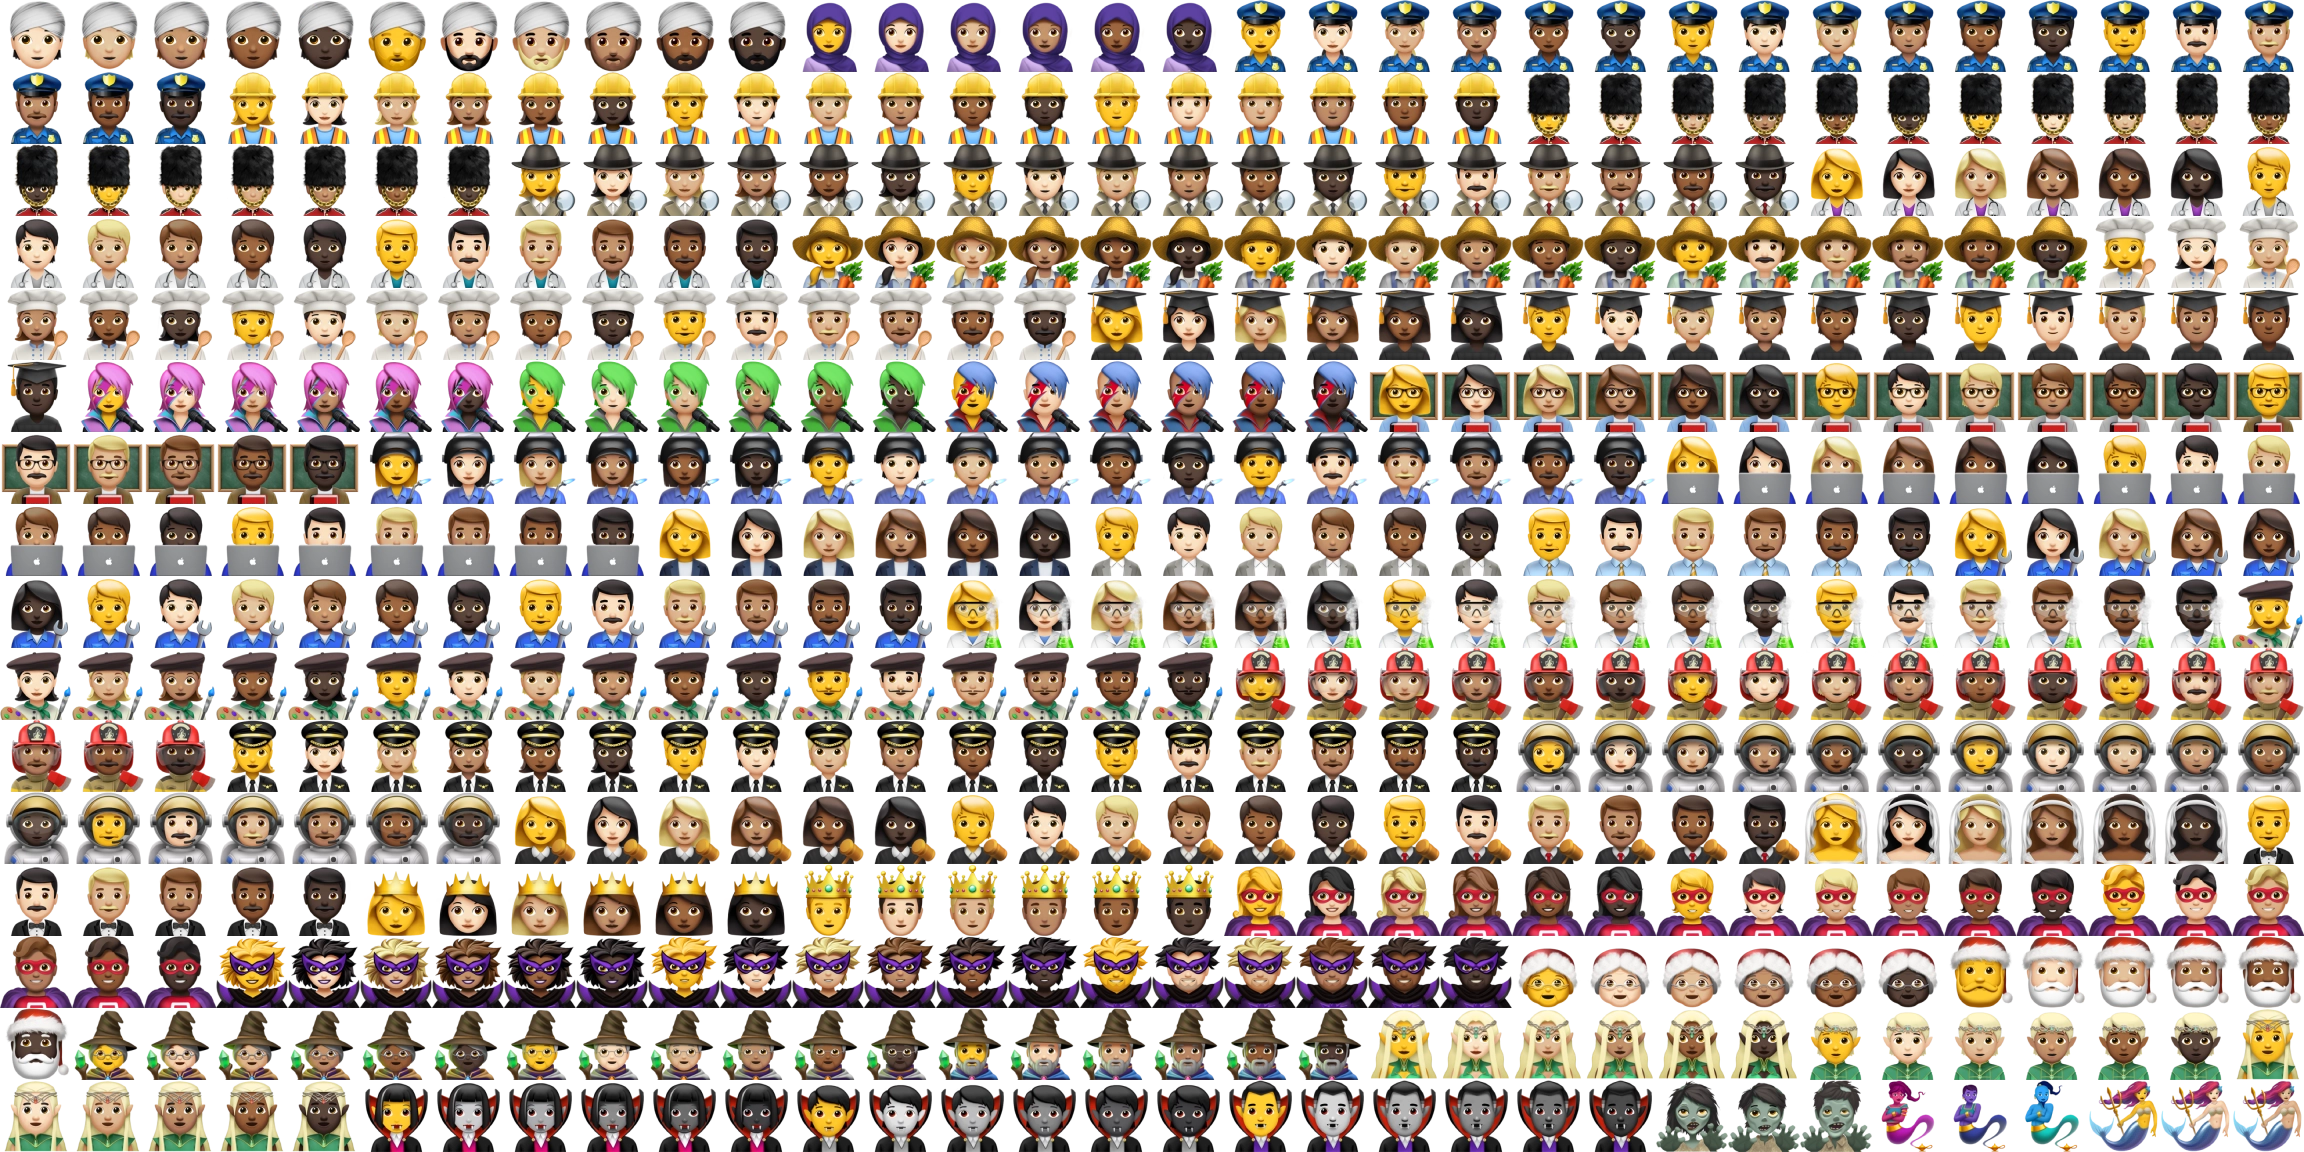
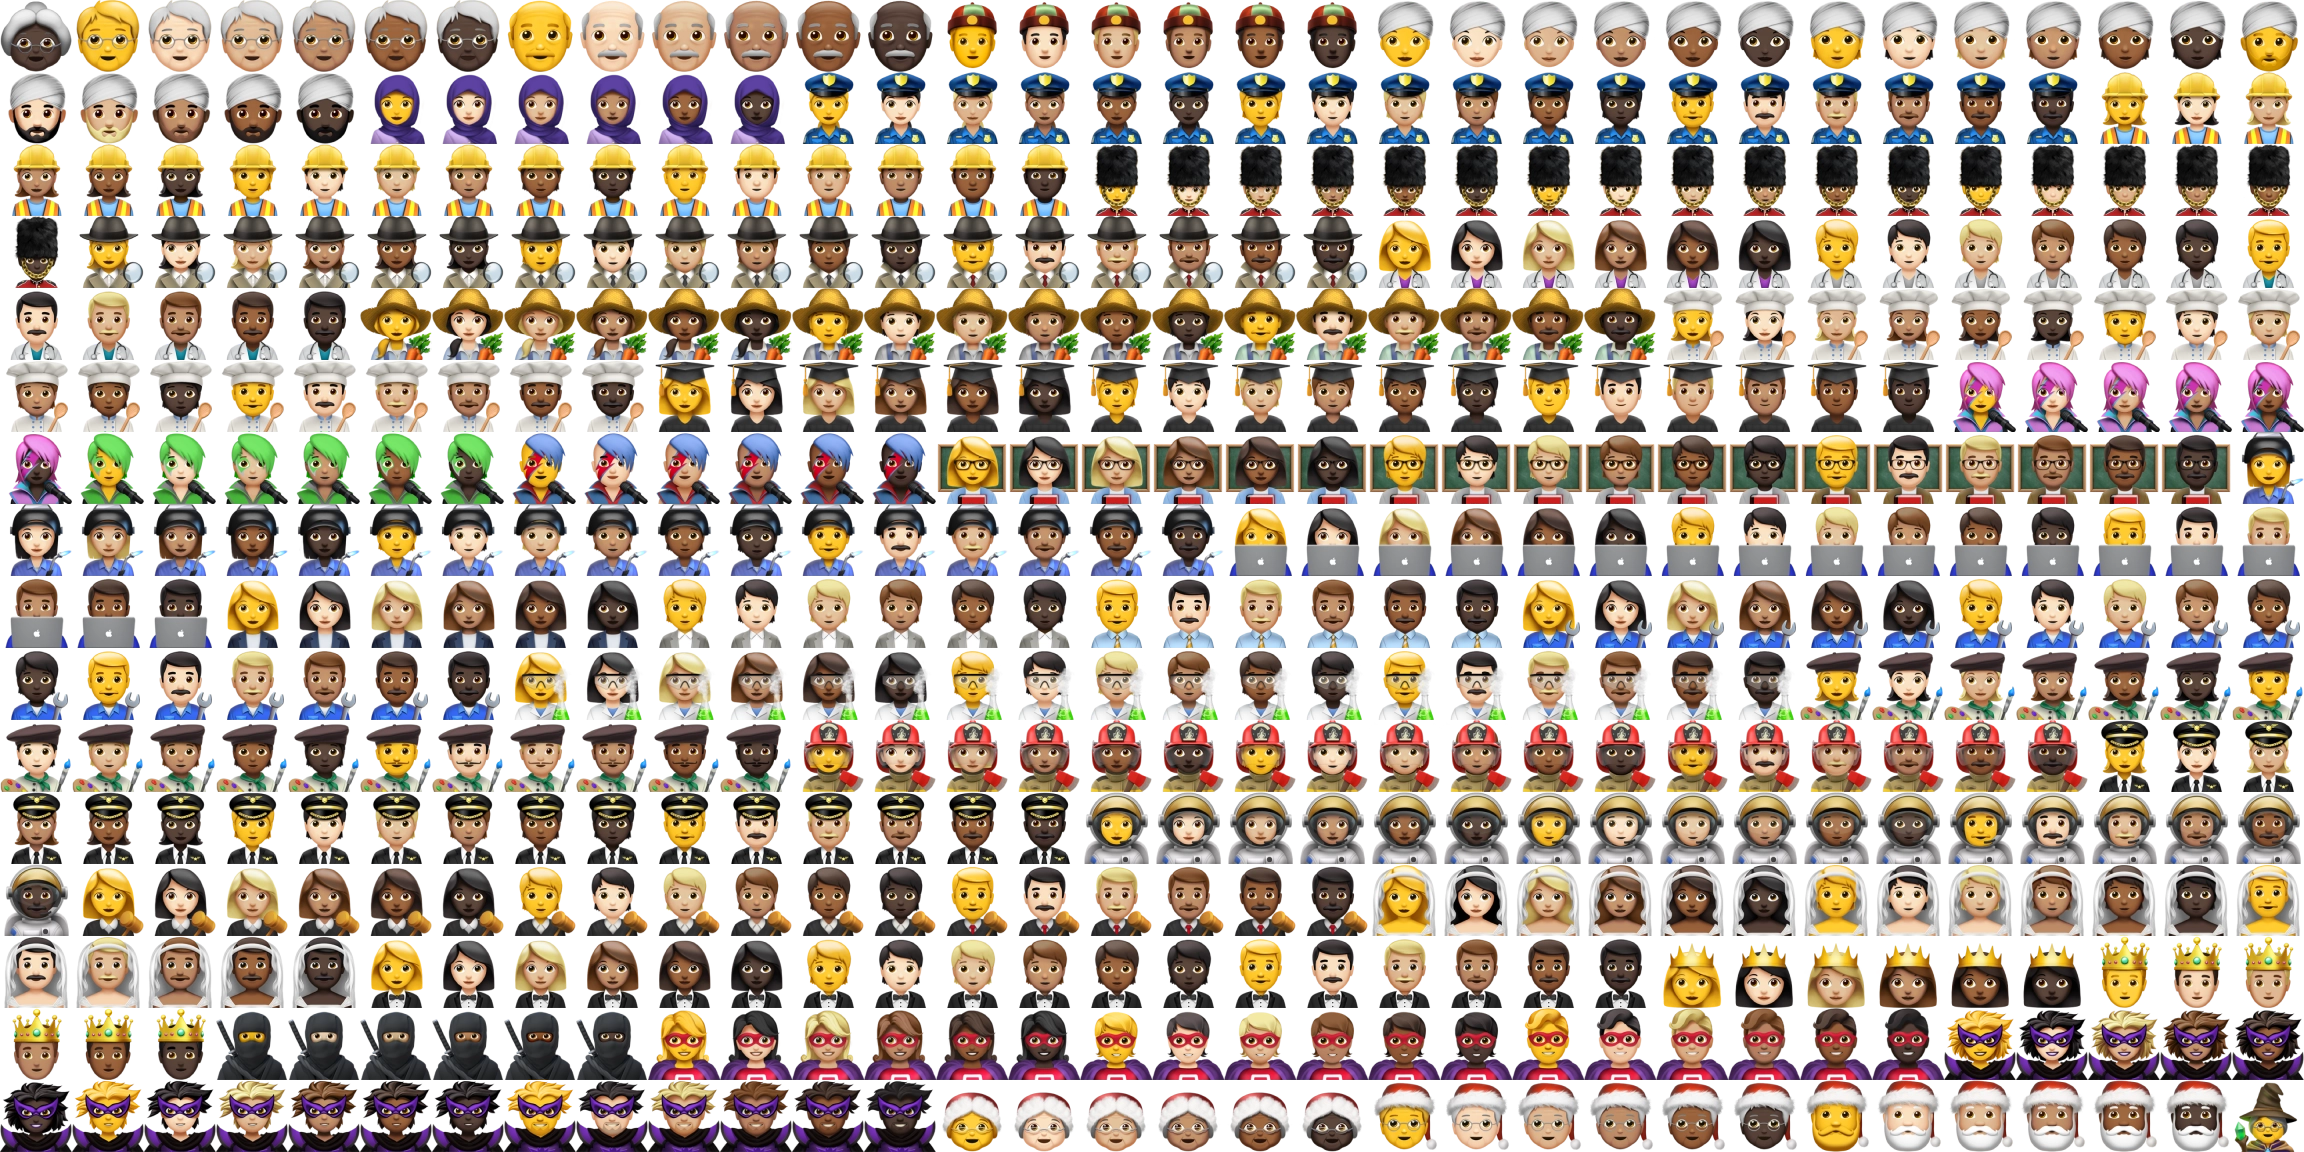
Update emoji to 13.1.

diff --git a/Telegram/SourceFiles/chat_helpers/emoji_sets_manager.cpp b/Telegram/SourceFiles/chat_helpers/emoji_sets_manager.cpp
@@ -39,10 +39,10 @@ inline auto PreviewPath(int i) {
 }
 
 const auto kSets = {
-	Set{ {0,   0,         0, "Mac"},       PreviewPath(0) },
-	Set{ {1, 713, 7'313'166, "Android"},   PreviewPath(1) },
-	Set{ {2, 714, 4'690'333, "Twemoji"},   PreviewPath(2) },
-	Set{ {3, 716, 5'968'021, "JoyPixels"}, PreviewPath(3) },
+	Set{ { 0,    0,         0, "Mac" },       PreviewPath(0) },
+	Set{ { 1, 1112, 7'914'459, "Android" },   PreviewPath(1) },
+	Set{ { 2, 1113, 5'287'724, "Twemoji" },   PreviewPath(2) },
+	Set{ { 3, 1114, 6'687'347, "JoyPixels" }, PreviewPath(3) },
 };
 
 using Loading = MTP::DedicatedLoader::Progress;
